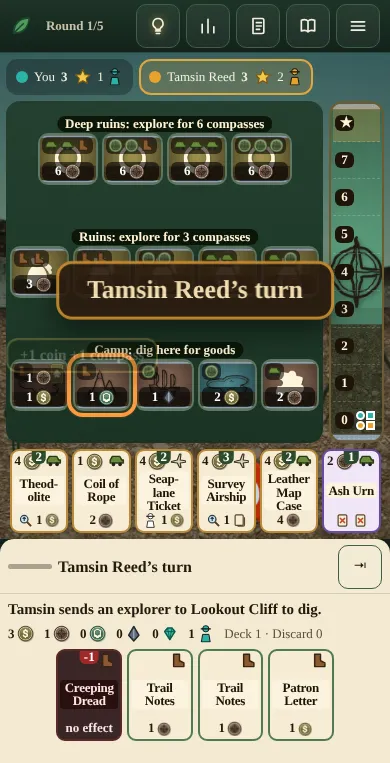
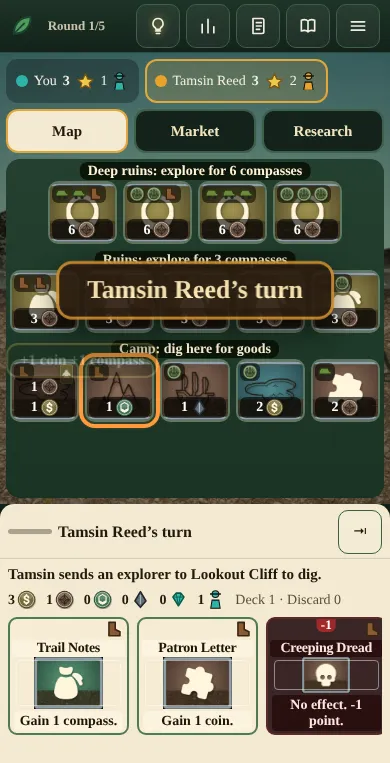
vinegrave: phone layout before/after notes and shots

diff --git a/games-src/vinegrave/PLAYABLE.md b/games-src/vinegrave/PLAYABLE.md
@@ -53,6 +53,16 @@ Toasts now sit above the dock, so they never cover the instruction line.
 
 - Free CC0 art kit (orchestrator, 21:37): merged and installed (170 pictures), and every gate re-run with it. Desktop card pictures show in full, with the effect line under the picture instead of over it. The kit's Boot, Jeep, Plane, arrowhead and jewel icons are the same blank hexagon, less clear than the code-drawn shapes, so those 5 slots keep the code glyph (WEAK_ART in src/ui1.js; delete an entry when real art arrives). Phone cards still hide the card picture: it would be about 50x14 px there. The name is clearer, and a tap shows the big card with its picture. Solid backings were added behind the track numbers, site names and row labels that now sit over art.
 
+## Phone layout redo (owner bug report 21:53: "tiny everything, very badly organised")
+Before: map, market row, research track, hand and dock all on one 390x763 screen. Market cards were 58 px wide with icon-only effects, the track was a 56 px strip, and hand cards were 66 px (shot: playable-shots/layout-before-phone.webp).
+After (playable-shots/layout-after-{map,row,track}-phone.webp):
+- ONE big area at a time behind three 44 px tabs: **Map** (the default: sites fill the width, row labels on solid backing), **Market** (6 cards in a 3x2 grid, each about 120 px wide with name, picture and the plain effect in words), **Research** (full-width track with each row's cost and a one-line "how it works").
+  A gold dot marks a tab that holds something you can do now.
+- Your hand is a bottom tray: each card is 31% of the screen wide (more than 30%), showing its name, picture and plain effect. Swipe for the rest; tap a card for the big view.
+- Rival turns open the tab their move happens in (e.g. Market when Tamsin buys), then go back to the Map when your turn starts. Each tutorial step opens the tab its target is in.
+- Phone base text 14 px (cards, labels, chips); tabs, explorer chips, Pass and tags are at least 44 px tall. The instruction stays at most 2 lines.
+- Gate: build-all --quick PASS (the scenarios now open the Market / Research tab before checking). Tutorial-to-end PASS at 390x763 and 1440x860 (17 steps). Quick game by UI taps PASS at 390x763 (the tapper also uses the tabs). Smoke PASS. qa-bot phone: 0 blockers, 1 major, 27 minors (before: 0 / 0 / 48). The one major is "stuck overlay without any button: div#iscrim" in the fuzz phase on tutorial step 2 (screenshot: big card open, "Play it" spotlit and tappable, Skip tutorial visible). qa-bot's own report filter (STALE in qa-bot.js) drops stuck-overlay findings on a scrim as a bot artefact; it is not a soft lock.
+
 ## Remaining
 - Phone market cards still show effects as icons (no room for a sentence at 58 px); the name is readable and a tap opens the full text.
 - The vp badge on a phone market card can touch the cost icon on 4-coin cards.
